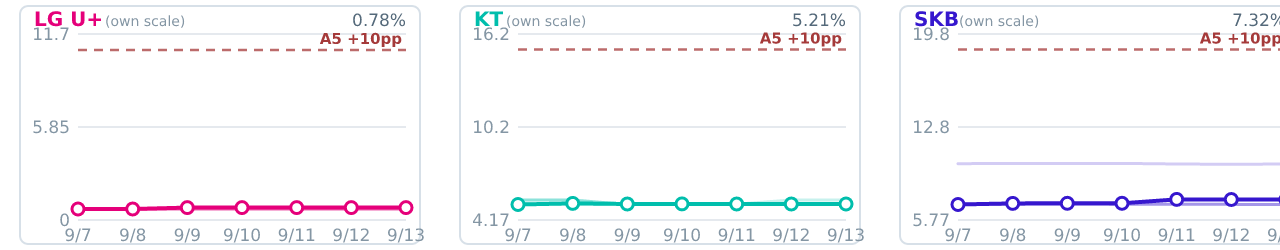
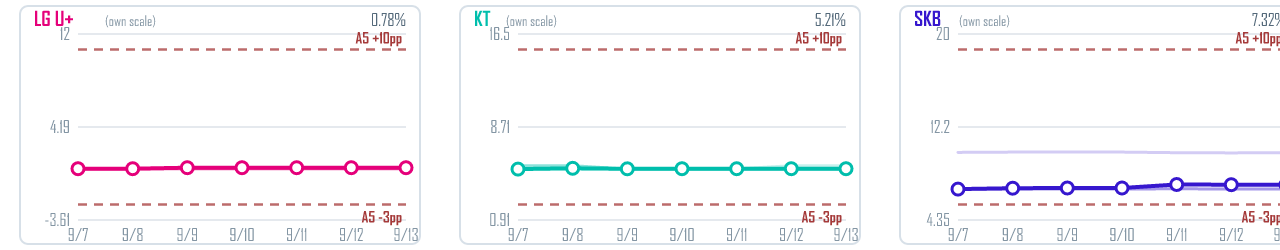
feat(alert): A5 RPKI 하락 규칙 + 주간 메일 '지난주 이탈 Top 5' (미결 2건 반영)
A5 하락(drop_pp -3%p·3일): 상승만 보던 탓에 SKB RPKI 10.06%→6.95%(8/31~ 7일 지속)를 놓쳤다.
전 이력 백테스트에서 그 사건 1건만 잡고 KT·LGU는 최대 낙폭 0.49/0.43%p라 6배 여유(-4%p면 그 사건도 놓침).
뒤늦은 규칙은 소급 발동하지 않는다 — 롤링 기준선이 지속 이동을 흡수하므로. 테스트는 generatedAt을
사건 당시로 당겨 발동을 재현해 검증한다.

이탈 Top 5(weekDeviations): 7일 평균이 지우는 하루 튐을 최대값으로 되살리는 표. 기준선을 같은 요일
최근 8개로 잡아 주말 효과를 제거(28일 중앙값이면 토요일마다 'LG U+ IPv6 +19%'가 떠서 표를 못 믿게 됨).
(지표,ISP)별 최악의 하루만 남겨 지속 이동이 표를 독점하지 못하게 하고, z>=4로 미미한 흔들림을 배제.

테스트 81항목. 핸드오프 §10·§17 갱신.

diff --git a/scripts/detect-anomaly.ts b/scripts/detect-anomaly.ts
@@ -49,7 +49,7 @@ const D2_DAYS = 3; // 전 사업자·전 값 완전 동일 연속 일수
 const D2_MIN_VALUES = 5; // D2 판정에 필요한 최소 non-null 값 수(케이블사 결측 등 감안)
 
 // ---- 트리거 정의 (§17 표와 1:1) ----
-type Cmp = 'gte' | 'lte' | 'gt0' | 'rise_pp' | 'drop_pct';
+type Cmp = 'gte' | 'lte' | 'gt0' | 'rise_pp' | 'drop_pp' | 'drop_pct';
 interface Rule { key: string; cmp: Cmp; th: number; days: number; meaning: string }
 export interface Trigger {
   id: string;
@@ -70,8 +70,14 @@ export const TRIGGERS: Trigger[] = [
     rules: [{ key: 'rise', cmp: 'gte', th: 10, days: 3, meaning: 'DNSSEC 검증 활성화 — 평소 2%대, 1년 최대 8.2%' }] },
   { id: 'A4', metric: 'dnssec', isps: ['skb'], kGate: true,
     rules: [{ key: 'drop', cmp: 'lte', th: 25, days: 7, meaning: 'DNSSEC 검증 비활성화·후퇴 — 평소 33~60%' }] },
+  // A5 하락 규칙(2026-09-14 추가) — 상승만 보던 탓에 SKB RPKI 10.06%→6.95% 7일 지속을 놓쳤다(8/31~).
+  // -3%p 3일: 전 이력 백테스트에서 그 사건 1건만 잡고, KT·LG U+는 최대 하락이 0.49/0.43%p라 6배 여유.
+  // (-4%p면 그 사건조차 놓침 — 실제 낙폭이 3.10%p였다.)
   { id: 'A5', metric: 'rpkiValid', isps: KR3,
-    rules: [{ key: 'rise', cmp: 'rise_pp', th: 10, days: 3, meaning: 'RPKI 라우팅 경로 인증 적용 — 평소 한 자릿수에서 거의 고정' }] },
+    rules: [
+      { key: 'rise', cmp: 'rise_pp', th: 10, days: 3, meaning: 'RPKI 라우팅 경로 인증 적용 — 평소 한 자릿수에서 거의 고정' },
+      { key: 'drop', cmp: 'drop_pp', th: 3, days: 3, meaning: 'RPKI 경로 인증 후퇴 — 평소 ±0.5%p 내에서 고정, 3%p 하락은 정책·장비 변경 신호' },
+    ] },
   { id: 'A6', metric: 'packetLoss', isps: KR3,
     rules: [{ key: 'loss', cmp: 'gt0', th: 0, days: 2, meaning: '실제 패킷 손실 발생 — 3사 모두 88일 연속 0.000' }] },
   // S: 속도 저하(2026-09-09 추가). 사업자별 수준이 달라 절대 바닥 대신 '자기 직전 28일 중앙값 대비 하락률'.
@@ -158,6 +164,7 @@ function holds(p: Pt, r: Rule): boolean | null {
     case 'lte': return p.v <= r.th;
     case 'gt0': return p.v > 0;
     case 'rise_pp': return p.base == null ? null : p.v - p.base >= r.th; // 기준선 없으면 판정 불가
+    case 'drop_pp': return p.base == null ? null : p.base - p.v >= r.th;
     case 'drop_pct': return p.base == null || p.base <= 0 ? null : ((p.base - p.v) / p.base) * 100 >= r.th;
   }
 }
@@ -193,6 +200,7 @@ export interface EvalResult { state: AlertState; events: AlertEvent[]; checks: C
 
 const condText = (r: Rule, unit: string) =>
   r.cmp === 'rise_pp' ? `28일 중앙값 대비 +${r.th}%p 이상 · ${r.days}일 연속`
+  : r.cmp === 'drop_pp' ? `28일 중앙값 대비 -${r.th}%p 이상 하락 · ${r.days}일 연속`
   : r.cmp === 'drop_pct' ? `28일 중앙값 대비 -${r.th}% 이상 하락 · ${r.days}일 연속`
   : r.cmp === 'gt0' ? `0 초과 · ${r.days}일 연속`
   : `${r.cmp === 'gte' ? '≥' : '≤'} ${r.th}${unit} · ${r.days}일 연속`;
@@ -328,6 +336,70 @@ export function digestData(data: QualityData, cacheGeneratedAt: Record<string, s
 }
 const round1 = (v: number | null) => (v == null ? null : Math.round(v * 10) / 10);
 
+// ---- 지난주 이탈 Top N (2026-09-14) ----
+// 주간 평균은 '수준'을 보여 주지만 하루 튐을 지운다(실측: 9/3 KT DNSSEC +37.9%가 주간 평균에선 +11.7%).
+// 그래서 평균 옆에 '그 주의 최대 단일일 이탈'을 따로 세운다 — 평균이 합으로 뭉갠 것을 최대값으로 되살리는 표.
+//
+// 기준선은 **같은 요일**의 최근 8개(최소 5개, 부족하면 28일 중앙값)로 잡는다. 요일 효과가 실재하기 때문 —
+// LG U+ IPv6는 주말이 평일보다 ~23% 높고 DNSSEC은 요일 진폭이 40%에 달한다. 28일 중앙값을 쓰면
+// 토요일마다 "LG U+ IPv6 +19%"가 떠서 표를 못 믿게 된다(2026-09-14 실측으로 확인하고 요일 보정 채택).
+const DEV_Z = 4;          // 자기 변동폭(robust z) 기준 — 3이면 0.005%p짜리 ipv6 KT 흔들림까지 올라온다
+const DEV_DOW_MIN = 5;    // 같은 요일 표본이 이보다 적으면 28일 중앙값으로 폴백
+const DEV_DOW_MAX = 8;
+const DEV_TOP_N = 5;
+
+export interface Deviation {
+  metricId: string; metric: string; isp: string; day: string; dow: string;
+  v: number; base: number; pct: number; z: number; byDow: boolean;
+}
+const DOW_KO = ['일', '월', '화', '수', '목', '금', '토'];
+
+export function weekDeviations(data: QualityData, week: WeekWindow, metricIds: string[], isps = KR3): Deviation[] {
+  const axis = data.tiers.coarse.t;
+  const generated = Date.parse(data.generatedAt);
+  const best = new Map<string, Deviation>(); // (지표,ISP)별 최악의 하루만 — 지속 이동이면 한 줄이 7칸을 다 먹는다
+  for (const metricId of metricIds) for (const isp of isps) {
+    const blk = data.series[isp]?.[metricId]?.coarse;
+    if (!blk) continue;
+    const [v, , k] = blk;
+    const kGate = TRIGGERS.some((t) => t.metric === metricId && t.kGate);
+    for (let i = 0; i < axis.length; i++) {
+      const x = v[i];
+      if (x == null || axis[i] < week.from || axis[i] >= week.to || axis[i] + DAY > generated) continue;
+      if (kGate && k[i] != null) { // 저표본일 제외(트리거와 같은 게이트)
+        const kh: number[] = [];
+        for (let j = i - BASE_DAYS; j < i; j++) { const kk = k[j]; if (j >= 0 && kk != null) kh.push(kk); }
+        const km = med(kh);
+        if (kh.length >= 14 && km > 0 && (k[i] as number) < km * K_GATE_RATIO) continue;
+      }
+      const dow = new Date(axis[i]).getUTCDay();
+      const h28: number[] = [], hdow: number[] = [];
+      for (let j = i - 1; j >= 0 && axis[j] > axis[i] - 70 * DAY; j--) {
+        const y = v[j]; if (y == null) continue;
+        if (axis[j] > axis[i] - BASE_DAYS * DAY) h28.push(y);
+        if (new Date(axis[j]).getUTCDay() === dow && hdow.length < DEV_DOW_MAX) hdow.push(y);
+      }
+      if (h28.length < 14) continue;
+      const byDow = hdow.length >= DEV_DOW_MIN;
+      const ref = byDow ? hdow : h28;
+      const base = med(ref);
+      if (Math.abs(base) <= 1e-9) continue; // 0 기준 변화율은 무의미
+      const mad = med(ref.map((y) => Math.abs(y - base))) * 1.4826;
+      const dev = x - base;
+      // MAD=0(완전히 평평하던 계열)인데 값이 움직였으면 확실한 이탈 → z=∞ 취급
+      const z = mad > 0 ? Math.abs(dev) / mad : (Math.abs(dev) > 1e-12 ? Infinity : 0);
+      if (z < DEV_Z) continue;
+      const pct = (dev / base) * 100;
+      const key = `${metricId}:${isp}`;
+      const cur = best.get(key);
+      if (!cur || Math.abs(pct) > Math.abs(cur.pct)) {
+        best.set(key, { metricId, metric: metricLabel(metricId), isp, day: dayKey(axis[i]).slice(5), dow: DOW_KO[dow], v: x, base, pct, z, byDow });
+      }
+    }
+  }
+  return [...best.values()].sort((a, b) => Math.abs(b.pct) - Math.abs(a.pct)).slice(0, DEV_TOP_N);
+}
+
 // 차트 임계선: 트리거 규칙을 지표별·ISP별 y값으로. 상대 규칙(rise_pp·drop_pct)은 주 마지막 날 기준 직전 28일 중앙값으로 환산.
 export function chartGuides(data: QualityData, week: WeekWindow): Record<string, Guide[]> {
   const out: Record<string, Guide[]> = {};
@@ -344,6 +416,7 @@ export function chartGuides(data: QualityData, week: WeekWindow): Record<string,
       case 'lte': y = r.th; label = `${trg.id} ≤ ${r.th}`; break;
       case 'gt0': y = 0; label = `${trg.id} > 0`; break;
       case 'rise_pp': { const b = baseline(isp, trg.metric); if (b != null) { y = b + r.th; label = `${trg.id} +${r.th}pp`; } break; }
+      case 'drop_pp': { const b = baseline(isp, trg.metric); if (b != null) { y = b - r.th; label = `${trg.id} -${r.th}pp`; } break; }
       case 'drop_pct': { const b = baseline(isp, trg.metric); if (b != null) { y = b * (1 - r.th / 100); label = `${trg.id} -${r.th}%`; } break; }
     }
     if (y != null) (out[trg.metric] ??= []).push({ isp, y, label });
@@ -376,6 +449,17 @@ export function buildReport(r: EvalResult, data: QualityData, cacheGeneratedAt: 
   out.push(`## 활성 알림 ${act.length}건`);
   for (const [k, a] of act) out.push(`- ${k} (since ${a.since.slice(0, 10)}) — ${a.detail}`);
   if (!act.length) out.push('- 없음');
+  if (week) {
+    const devs = weekDeviations(data, week, CHART_SPECS.map((s) => s.id));
+    out.push('', '### 지난주 이탈 Top 5 (하루 단위 · 같은 요일 평소값 대비)');
+    if (devs.length) {
+      out.push('| 날짜 | 지표 | 대상 | 그날 값 | 평소 | 이탈 |', '|---|---|---|---|---|---|');
+      for (const x of devs) {
+        const unit = METRIC_BY_ID[x.metricId]?.unit ?? '';
+        out.push(`| ${x.day}(${x.dow}) | ${x.metric} | ${ispName(x.isp)} | ${fmt(round1(x.v), unit)} | ${fmt(round1(x.base), unit)}${x.byDow ? '' : ' (28일)'} | ${x.pct > 0 ? '+' : ''}${x.pct.toFixed(1)}% (${x.z === Infinity ? '평소 완전히 일정하던 값' : `평소 변동의 ${x.z.toFixed(1)}배`}) |`);
+      }
+    } else out.push('특이 이탈 없음.');
+  }
   out.push('', digest(data, cacheGeneratedAt, now, week), '', '<details><summary>판정 상세</summary>', '',
     ...r.checks.map((c) => `- ${c.key} · ${c.metric} · ${c.group === 'D' ? c.target : ispName(c.target)} — 최근값 ${fmt(c.value, c.unit)} (${c.date}) → ${c.met ? '충족' : '미충족'}${c.active ? ' [활성]' : ''}`), '', '</details>');
   return out.join('\n');
@@ -398,6 +482,7 @@ export function buildMailHtml(r: EvalResult, data: QualityData, cacheGeneratedAt
   const week = opts.week;
   const dg = digestData(data, cacheGeneratedAt, now, week);
   const wev = week ? weekEvents(r.state, week) : [];
+  const devs = week ? weekDeviations(data, week, CHART_SPECS.map((s) => s.id)) : [];
   const freshState = (f: DigestData['fresh'][number]) => f.ageH == null ? 'none' : f.ageH >= f.limitH ? 'over' : f.ageH >= f.limitH * 0.5 ? 'warn' : 'ok';
   const freshBad = dg.fresh.filter((f) => freshState(f) === 'over' || freshState(f) === 'none').length;
   const freshWarn = dg.fresh.filter((f) => freshState(f) === 'warn').length;
@@ -441,6 +526,18 @@ export function buildMailHtml(r: EvalResult, data: QualityData, cacheGeneratedAt
     dg.ranks.map((m) => `<tr>${td(`<b>${esc(m.short)}</b>`)}${m.cells.map((c) => rankCell(c, m.unit, m.hib)).join('')}</tr>`).join(''));
   const weekEventsHtml = wev.length ? wev.map(eventCard).join('')
     : `<div style="padding:10px 12px;background:${C.card};border:1px solid ${C.line};border-radius:6px;font-size:13px;color:${C.soft};${FONT}">지난주 발동·해소 이벤트 없음 — 트리거 전부 정상 범위였습니다.</div>`;
+  // 이탈 Top N — 평균이 지우는 하루 튐. 트리거가 안 울린 것(지속 조건 미달)도 여기엔 보인다.
+  const devHtml = devs.length
+    ? table(`<tr>${th('날짜', 'width:10%')}${th('지표', 'width:30%')}${th('대상', 'width:12%')}${th('그날 값', 'text-align:right;width:14%')}${th('평소(같은 요일)', 'text-align:right;width:16%')}${th('이탈', 'text-align:right;width:18%')}</tr>` +
+      devs.map((x) => {
+        const unit = METRIC_BY_ID[x.metricId]?.unit ?? '';
+        const worse = (METRIC_BY_ID[x.metricId]?.higherIsBetter ?? true) ? x.pct < 0 : x.pct > 0;
+        return `<tr>${td(`${esc(x.day)}<span style="color:${C.faint}">(${esc(x.dow)})</span>`, 'white-space:nowrap')}${td(esc(x.metric))}${td(esc(ispName(x.isp)), 'white-space:nowrap')}` +
+          `${td(`<b>${esc(fmt(round1(x.v), unit))}</b>`, 'text-align:right;white-space:nowrap')}` +
+          `${td(`<span style="color:${C.soft}">${esc(fmt(round1(x.base), unit))}</span>${x.byDow ? '' : `<div style="font-size:10px;color:${C.faint}">28일 기준</div>`}`, 'text-align:right;white-space:nowrap')}` +
+          `${td(`<b style="color:${worse ? C.bad : C.good}">${x.pct > 0 ? '▲' : '▼'} ${Math.abs(x.pct).toFixed(1)}%</b><div style="font-size:10px;color:${C.faint}">${x.z === Infinity ? '평소 완전히 일정하던 값' : `평소 변동의 ${x.z.toFixed(1)}배`}</div>`, 'text-align:right;white-space:nowrap')}</tr>`;
+      }).join(''))
+    : `<div style="padding:10px 12px;background:${C.card};border:1px solid ${C.line};border-radius:6px;font-size:13px;color:${C.soft};${FONT}">특이 이탈 없음 — 모든 지표가 요일별 평소 변동폭 안에서 움직였습니다.</div>`;
   // 판정 행 렌더러 — 전체 표(일별 메일)와 지표 카드(주간 메일) 양쪽에서 씀. withMetric=false 면 지표명 열을 생략(카드 제목에 이미 있음).
   const stateChip = (c: Check) => c.active ? chip('발동 중', C.bad, C.badSoft) : c.met ? chip('충족', C.warn, C.warnSoft) : chip('정상', C.ops, C.opsSoft);
   const checkRow = (c: Check, withMetric: boolean) => `<tr>${td(withMetric ? `<b style="color:${C.accent}">${esc(c.trigger)}</b> · <b>${esc(c.metric)}</b>` : `<b style="color:${C.accent}">${esc(c.trigger)}</b>`, withMetric ? '' : 'white-space:nowrap')}` +
@@ -491,6 +588,7 @@ export function buildMailHtml(r: EvalResult, data: QualityData, cacheGeneratedAt
     (week ? section(`지난주 이벤트 (${week.label})`, weekEventsHtml) + (r.events.length ? section('오늘 신규 이벤트', eventsHtml) : '') : section('이벤트', eventsHtml)) +
     section('활성 알림', activeHtml) +
     section('국내 3사 대표 지표 순위', ranksHtml, week ? `지난주 ${week.label} 일별 집계 평균 · 1위 초록 · 꼴찌 빨강 · 화살표는 전전주 대비 변화(초록=개선, 빨강=악화)` : '종합지표 패널과 같은 계산 · 1위 초록 · 꼴찌 빨강') +
+    (week ? section('지난주 이탈 Top 5 — 하루 단위', devHtml, '위 순위는 7일 평균이라 하루짜리 튐이 묻힙니다. 여기는 그 주의 가장 큰 단일일 이탈을 같은 요일 평소값과 비교해 보여 줍니다(요일 효과 제거). 트리거가 안 울렸어도(지속 조건 미달) 보입니다.') : '') +
     (week && opts.charts?.length ? section('지표별 지난주 추이 + 트리거 판정', metricCards, `진한 선·점 = 지난주 ${week.label} · 연한 선 = 1주 전 · 더 연한 선 = 2주 전 · 빨간 점선 = 아래 표의 트리거 임계값(상대 조건은 28일 기준선으로 환산) · 패널 눈금은 공유, 사업자 간 수준이 5배 이상 벌어지면 개별(own scale)`) : '') +
     section('수집 신선도', freshHtml) +
     section(week && opts.charts?.length ? '운영 트리거 판정 현황' : '트리거 판정 현황', checksHtml, '"정상" = 조건 미충족. "충족"은 조건은 넘었으나 아직 발동 처리 전, "발동 중"은 해소 전까지 재발송 없음') +

diff --git a/scripts/detect-anomaly.test.ts b/scripts/detect-anomaly.test.ts
@@ -4,7 +4,7 @@
 import { readFile } from 'node:fs/promises';
 import { dirname, resolve } from 'node:path';
 import { fileURLToPath } from 'node:url';
-import { evaluate, emptyState, buildMailHtml, buildReport, digestData, prevWeekWindow, chartGuides, TRIGGERS, CACHE_NAMES, KR3, type AlertState } from './detect-anomaly.ts';
+import { evaluate, emptyState, buildMailHtml, buildReport, digestData, prevWeekWindow, chartGuides, weekDeviations, TRIGGERS, CACHE_NAMES, KR3, type AlertState } from './detect-anomaly.ts';
 import { extractSeries, weeklyChartSvg, svgToPng, renderWeeklyCharts, CHART_ISPS } from './weekly-charts.ts';
 import { tmpdir } from 'node:os';
 import type { QualityData } from '../src/types.ts';
@@ -182,7 +182,54 @@ async function main() {
     const pngG = svgToPng(weeklyChartSvg(extractSeries(real, 'ipv6', w.from), ['a', 'b', 'c', 'd', 'e', 'f', 'g'], '%', [...(g.ipv6 ?? []), { isp: 'kt', y: 0.5, label: 'x <= 1 & y' }]));
     ok(pngG.length > 2000 && pngG[0] === 0x89, `임계 라벨(≤·<·&) 포함 PNG 변환 ${(pngG.length / 1024).toFixed(0)}KB`); }
 
-  console.log('\n[9] 정의 무결성');
+  console.log('\n[9] A5 하락 규칙 (2026-09-14 추가)');
+  { // 실데이터 검증: SKB RPKI가 8/31에 10.06%→6.95%로 떨어졌다. 그 시점(9/2 = 3일째)에 규칙이 있었다면 발동했어야 한다.
+    // generatedAt만 9/3으로 당기면 9/2까지가 '완결일'이 되어 당시 판정이 그대로 재현된다(부분일 제외 로직 이용).
+    const past = clone(real); past.generatedAt = '2026-09-03T00:00:00.000Z';
+    const rPast = run(past, emptyState(), Date.parse(past.generatedAt) + 2 * 3600000);
+    ok(rPast.events.some((e) => e.key === 'A5:skb:drop'), `사건 당시(9/2) 발동했을 것 — ${rPast.events.map((e) => e.key).join(',') || '없음'}`);
+    // 지금은 안 울린다: SKB가 7.32%로 일부 회복 + 28일 중앙값이 10.0으로 내려와 낙폭 2.68%p < 3%p.
+    // 롤링 기준선은 지속 이동을 서서히 '새 정상'으로 흡수한다 — 뒤늦게 규칙을 넣어도 소급 발동하지 않는다.
+    const r = run(real);
+    ok(!r.events.some((e) => e.key === 'A5:skb:drop'), '현재는 미발동 — 기준선이 이동을 흡수(소급 발동 없음)');
+    ok(!r.events.some((e) => e.key === 'A5:kt:drop' || e.key === 'A5:lgu:drop'), 'KT·LG U+는 미발동(최대 하락 0.5%p 수준)');
+    // 경계: -2.5%p면 미발동(임계 3%p)
+    const d = clone(real);
+    const v = d.series.lgu.rpkiValid.coarse[0], axis = d.tiers.coarse.t, gen = Date.parse(d.generatedAt);
+    const idx: number[] = []; for (let i = v.length - 1; i >= 0 && idx.length < 31; i--) if (v[i] != null && axis[i] + 86400000 <= gen) idx.push(i);
+    const base = median(idx.slice(3, 31).map((i) => v[i] as number));
+    for (const i of idx.slice(0, 3)) v[i] = base - 2.5;
+    ok(!run(d).events.some((e) => e.key === 'A5:lgu:drop'), '-2.5%p → 미발동 (임계 3%p)');
+    for (const i of idx.slice(0, 3)) v[i] = base - 3.5;
+    ok(run(d).events.some((e) => e.key === 'A5:lgu:drop'), '-3.5%p 3일 연속 → 발동');
+    // 차트 임계선에도 하락선이 그려져야 함
+    const g = chartGuides(real, prevWeekWindow(Date.UTC(2026, 8, 9, 0, 0)));
+    ok(g.rpkiValid?.filter((x) => x.label.includes('-3pp')).length === 3, `A5 하락 점선 3사분 (${g.rpkiValid?.map((x) => x.label).join(' ')})`); }
+
+  console.log('\n[10] 지난주 이탈 Top N');
+  { const w = prevWeekWindow(Date.UTC(2026, 8, 14, 0, 0)); // 9/14(월) → 지난주 9/7~9/13
+    const ids = ['latency', 'downloadBandwidth', 'uploadBandwidth', 'niaDl1g', 'niaUl1g', 'ipv6', 'dnssec', 'rpkiValid', 'packetLoss'];
+    const devs = weekDeviations(real, w, ids);
+    ok(devs.length > 0 && devs.length <= 5, `${devs.length}건 (상한 5) — ${devs.map((x) => `${x.day} ${x.metricId}/${x.isp} ${x.pct.toFixed(1)}%`).join(' · ')}`);
+    ok(new Set(devs.map((x) => `${x.metricId}:${x.isp}`)).size === devs.length, '(지표,ISP)별 1건씩 — 지속 이동이 표를 독점하지 않음');
+    ok(devs.every((x, i) => i === 0 || Math.abs(devs[i - 1].pct) >= Math.abs(x.pct)), '|이탈%| 내림차순 정렬');
+    ok(devs.every((x) => x.z >= 4), '전부 자기 변동폭의 4배 이상');
+    // 요일 효과 제거 확인: LG U+ IPv6 토요일(평소 주말이 +23%)은 올라오면 안 된다
+    ok(!devs.some((x) => x.metricId === 'ipv6' && x.isp === 'lgu'), '주말 효과(LG U+ IPv6 토/일)는 요일 기준선으로 걸러짐');
+    ok(devs.every((x) => x.byDow), '기준선은 같은 요일 표본 사용(byDow)');
+    // 합성 급락을 넣으면 1위로 올라와야 함
+    const d = clone(real);
+    const axis = d.tiers.coarse.t, v = d.series.kt.downloadBandwidth.coarse[0];
+    const hit = axis.findIndex((t) => t >= w.from + 2 * 86400000 && t < w.from + 3 * 86400000);
+    if (hit >= 0 && v[hit] != null) v[hit] = (v[hit] as number) * 0.5;
+    const d2 = weekDeviations(d, w, ids);
+    ok(d2[0]?.metricId === 'downloadBandwidth' && d2[0].isp === 'kt' && d2[0].pct < -40, `합성 -50% 급락이 1위 (${d2[0]?.pct.toFixed(1)}%)`);
+    const html = buildMailHtml(run(d), d, caches, now, { week: w });
+    ok(html.includes('지난주 이탈 Top 5') && html.includes('평소 변동의'), 'HTML 주간 메일에 이탈 표 포함');
+    const md = buildReport(run(d), d, caches, now, w);
+    ok(md.includes('### 지난주 이탈 Top 5'), 'markdown 보고서에도 포함'); }
+
+  console.log('\n[11] 정의 무결성');
   ok(TRIGGERS.every((t) => t.isps.every((i) => real.series[i]?.[t.metric])), '트리거의 모든 (isp, metric)이 데이터에 존재');
   ok(KR3.every((i) => real.series[i]), 'KR3 존재');
   ok(KR3.join() === CHART_ISPS.join() && KR3[0] === 'lgu', `순위표·판정 열 순서 = 차트 패널 순서 (${KR3.join(' · ')})`);
